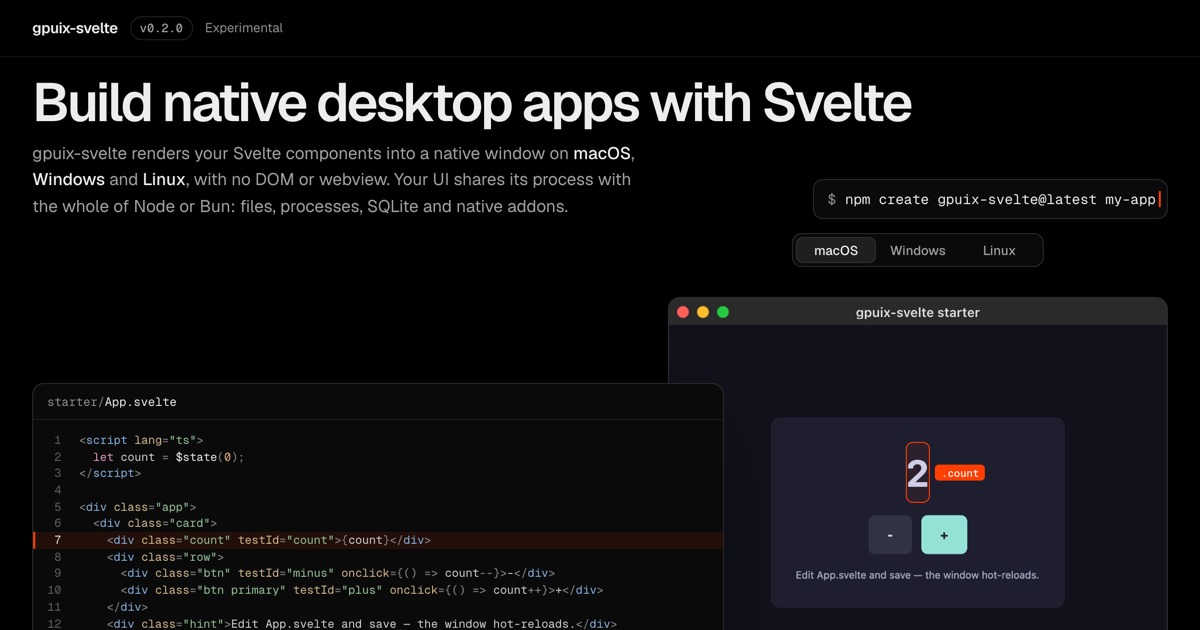
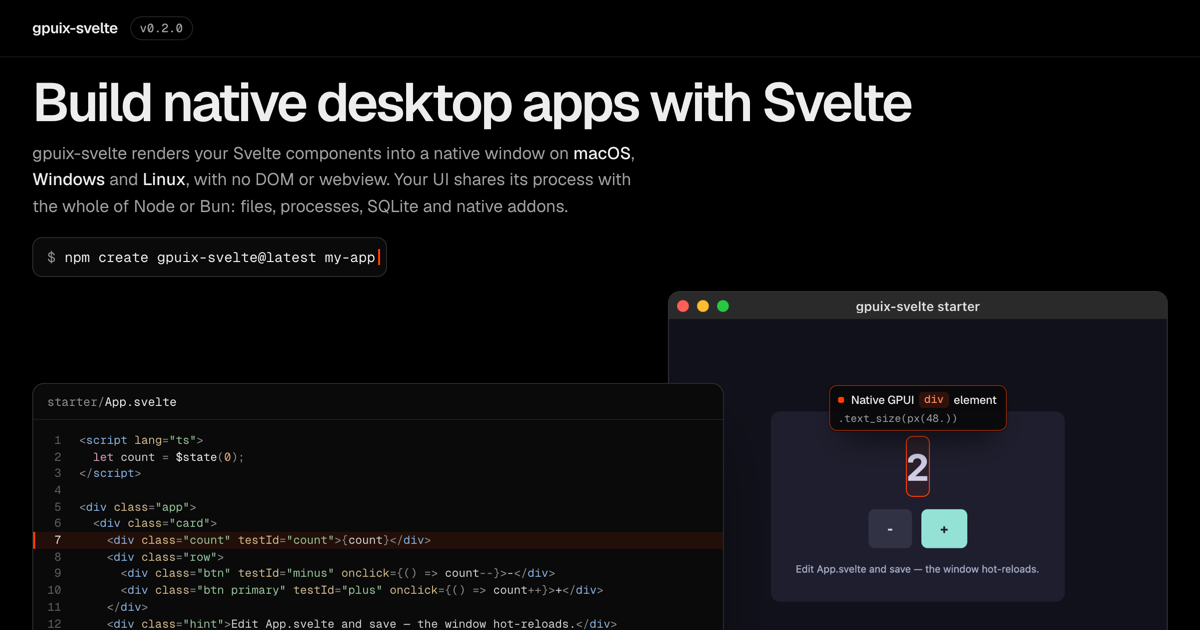
chore: wip

diff --git a/homepage/index.html b/homepage/index.html
@@ -19,12 +19,12 @@
 <meta property="og:image" content="https://khromov.github.io/gpuix-svelte/og.png">
 <meta property="og:image:width" content="1200">
 <meta property="og:image:height" content="630">
-<meta property="og:image:alt" content="The headline “Build native desktop apps with Svelte”, a sentence naming macOS, Windows and Linux, and the command npm create gpuix-svelte@latest my-app. Below it, the starter app’s App.svelte source beside its window, under a switch for the macOS, Windows and Linux title bars. Line 7 of the source is marked in orange, and the count it draws, 2, is outlined.">
+<meta property="og:image:alt" content="The headline “Build native desktop apps with Svelte”, a sentence naming macOS, Windows and Linux, and the command npm create gpuix-svelte@latest my-app. Below it, the starter app’s App.svelte source beside its window. Line 7 of the source is marked in orange, and the count it draws, 2, is outlined and labelled as a native GPUI div element.">
 <meta name="twitter:card" content="summary_large_image">
 <meta name="twitter:title" content="gpuix-svelte: Build native desktop apps with Svelte">
 <meta name="twitter:description" content="A Svelte renderer for native desktop apps on macOS, Windows and Linux. GPUI, the UI framework behind the Zed editor, draws them, with no DOM or webview.">
 <meta name="twitter:image" content="https://khromov.github.io/gpuix-svelte/og.png">
-<meta name="twitter:image:alt" content="The headline “Build native desktop apps with Svelte”, a sentence naming macOS, Windows and Linux, and the command npm create gpuix-svelte@latest my-app. Below it, the starter app’s App.svelte source beside its window, under a switch for the macOS, Windows and Linux title bars. Line 7 of the source is marked in orange, and the count it draws, 2, is outlined.">
+<meta name="twitter:image:alt" content="The headline “Build native desktop apps with Svelte”, a sentence naming macOS, Windows and Linux, and the command npm create gpuix-svelte@latest my-app. Below it, the starter app’s App.svelte source beside its window. Line 7 of the source is marked in orange, and the count it draws, 2, is outlined and labelled as a native GPUI div element.">
 <style>
 @font-face{font-family:Geist;src:url(assets/fonts/Geist-Variable.woff2) format("woff2");font-weight:100 900;font-style:normal;font-display:swap}
 @font-face{font-family:"Geist Mono";src:url(assets/fonts/GeistMono-Variable.woff2) format("woff2");font-weight:100 900;font-style:normal;font-display:swap}
@@ -74,18 +74,16 @@ ul[role=list]{list-style:none}
 .brand>a:first-child{font-weight:600;font-size:15px;letter-spacing:-.02em;text-decoration:none;white-space:nowrap}
 .ver{font:500 12px/1 var(--mono);color:var(--text-2);border:1px solid var(--line-2);border-radius:999px;padding:5px 9px;text-decoration:none;white-space:nowrap}
 .ver:hover{color:var(--text);border-color:var(--line-3)}
-.exp{font-size:13px;color:var(--text-3);text-decoration:none}
-.exp:hover{color:var(--text)}
 .nav ul{display:flex;gap:26px;margin:0;padding:0;list-style:none}
 .nav ul a{font-size:14px;color:var(--text-2);text-decoration:none;white-space:nowrap}
 .nav ul a:hover{color:var(--text)}
 
 .hero{padding:30px 0 80px}
 h1{font-size:clamp(38px,4.75vw,66px);line-height:1.02;letter-spacing:-.046em;text-wrap:balance}
-.lead{display:grid;grid-template-columns:minmax(0,1fr) auto;align-items:end;gap:20px 40px;margin-top:18px}
+.lead{display:grid;gap:24px;margin-top:18px}
 .lead p{max-width:37em;font-size:17px;line-height:1.55;color:var(--text-2);text-wrap:pretty}
 .lead p b{font-weight:500;color:var(--text)}
-.act{display:grid;gap:10px;justify-items:end;min-width:0}
+.act{display:flex;flex-wrap:wrap;align-items:center;gap:10px;min-width:0}
 .install{display:flex;align-items:center;gap:10px;min-width:0;max-width:100%;height:44px;padding:0 6px 0 14px;background:var(--s1);border:1px solid var(--line-2);border-radius:10px}
 .install code{flex:1 1 auto;min-width:0;font-size:14px;white-space:nowrap;overflow-x:auto;scrollbar-width:none;color:var(--text)}
 .install code::-webkit-scrollbar{display:none}
@@ -93,7 +91,8 @@ h1{font-size:clamp(38px,4.75vw,66px);line-height:1.02;letter-spacing:-.046em;tex
 .caret{display:inline-block;width:2px;height:16px;margin-left:3px;background:var(--accent);vertical-align:-3px}
 .copy{flex:none;appearance:none;height:32px;min-width:64px;padding:0 12px;font:500 12.5px/1 var(--sans);color:var(--text);background:var(--s3);border:1px solid var(--line-2);border-radius:7px;cursor:pointer}
 .copy:hover{background:#1f1f1f;border-color:var(--line-3)}
-.links{display:flex;gap:8px}
+.links{display:flex;gap:10px}
+.links .btn{height:44px;padding:0 18px;border-radius:10px}
 .btn{display:inline-flex;align-items:center;justify-content:center;height:34px;padding:0 14px;border-radius:8px;border:1px solid var(--line-2);font:500 14px/1 var(--sans);text-decoration:none;color:var(--text);white-space:nowrap}
 .btn:hover{border-color:var(--line-3);background:var(--s2)}
 .btn.solid{background:var(--text);color:#000;border-color:var(--text)}
@@ -139,12 +138,21 @@ h1{font-size:clamp(38px,4.75vw,66px);line-height:1.02;letter-spacing:-.046em;tex
 .tcopy .copy{position:absolute;top:8px;right:8px;height:26px;min-width:56px;font-size:12px;border-radius:6px}
 
 .box{position:absolute;border:1.5px solid var(--accent);border-radius:7px;background:rgba(255,62,0,.06);opacity:0;transition:opacity .14s ease;pointer-events:none}
-.box .tag{position:absolute;left:-1.5px;bottom:calc(100% + 5px);padding:3px 6px;border-radius:4px;background:var(--accent);color:#fff;font:500 10.5px/1 var(--mono);white-space:nowrap}
+.box .tag{position:absolute;left:-1.5px;bottom:calc(100% + 6px);display:grid;justify-items:start;gap:6px;padding:7px 10px 8px 9px;border:1px solid rgba(255,62,0,.5);border-radius:8px;background:rgba(9,9,11,.94);box-shadow:0 16px 32px -14px #000,0 0 0 1px rgba(0,0,0,.4);white-space:nowrap}
+.tag-k{display:flex;align-items:center;gap:5px;font:500 11.5px/1 var(--sans);letter-spacing:-.01em;color:var(--text)}
+.tag-k::before{content:"";flex:none;width:6px;height:6px;margin-right:2px;border-radius:2px;background:var(--accent)}
+.tag-k code{padding:2px 5px 3px;border-radius:4px;background:rgba(255,62,0,.16);color:#ff8a5c;font:500 11px/1 var(--mono)}
+.tag-c{font:400 10.5px/1 var(--mono);color:var(--text-2)}
 .box.in{background:none}
 .box.in .tag{bottom:auto;left:auto;top:8px;right:8px}
-.box.l .tag,.box.r .tag{bottom:auto;top:50%;transform:translateY(-50%)}
-.box.l .tag{left:auto;right:calc(100% + 6px)}
-.box.r .tag{left:calc(100% + 6px)}
+.box.r .tag{bottom:auto;top:50%;left:calc(100% + 6px);transform:translateY(-50%)}
+.box.ue .tag{left:auto;right:10px}
+.box.b .tag{bottom:auto;top:calc(100% + 6px)}
+@container (max-width:579px){
+.box .tag{bottom:calc(100% + 5px);gap:5px;padding:6px 9px 7px 8px}
+.box.r .tag,.box.ue .tag,.box.b .tag{top:calc(100% + 6px);bottom:auto;left:50%;right:auto;transform:translateX(-50%)}
+.box[data-t=count] .tag{top:auto;bottom:calc(100% + 6px)}
+}
 [data-active=app] .box[data-t=app],[data-active=card] .box[data-t=card],[data-active=count] .box[data-t=count],[data-active=row] .box[data-t=row],[data-active=minus] .box[data-t=minus],[data-active=plus] .box[data-t=plus],[data-active=hint] .box[data-t=hint]{opacity:1}
 [data-active=app] .ln[data-t=app],[data-active=card] .ln[data-t=card],[data-active=count] .ln[data-t=count],[data-active=row] .ln[data-t=row],[data-active=minus] .ln[data-t=minus],[data-active=plus] .ln[data-t=plus],[data-active=hint] .ln[data-t=hint]{background:var(--wash);box-shadow:inset 2px 0 0 var(--accent)}
 [data-active=app] .ln[data-t=app]::before,[data-active=card] .ln[data-t=card]::before,[data-active=count] .ln[data-t=count]::before,[data-active=row] .ln[data-t=row]::before,[data-active=minus] .ln[data-t=minus]::before,[data-active=plus] .ln[data-t=plus]::before,[data-active=hint] .ln[data-t=hint]::before{color:var(--text)}
@@ -172,7 +180,7 @@ h1{font-size:clamp(38px,4.75vw,66px);line-height:1.02;letter-spacing:-.046em;tex
 .osw-bars{position:relative;height:28px;overflow:hidden;background:#2a2a2a;box-shadow:inset 0 -1px rgba(0,0,0,.55);transition:height var(--osw-t) ease,background-color var(--osw-t) ease,box-shadow var(--osw-t) ease}
 .osw-bar{position:absolute;top:0;left:0;right:0;display:flex;align-items:center;opacity:0;visibility:hidden;user-select:none;-webkit-user-select:none;transition:opacity var(--osw-h) ease,visibility 0s linear var(--osw-h)}
 .osw-title{min-width:0;overflow:hidden;white-space:nowrap;text-overflow:ellipsis}
-.osw-body{position:relative}
+.osw-body{position:relative;container-type:inline-size}
 .osw-body img{display:block;width:100%;max-width:none;height:auto}
 
 .osw-mac{height:28px;justify-content:center;padding:0 72px}
@@ -409,10 +417,10 @@ figcaption{font-size:13.5px;line-height:1.55;color:var(--text-3)}
 .slot-dots{position:absolute;top:10px;left:10px;display:flex;gap:4px}
 .slot-dots i{width:7px;height:7px;border:1px solid var(--line-3);border-radius:50%}
 .slot+.slot .slot-dots i{border-color:var(--line-2)}
-.sponsor{margin-top:56px}
-.sponsor p{font-size:14px;color:var(--text-3)}
-.sponsor a{color:var(--text-2)}
-.sponsor a:hover{color:var(--text)}
+.sponsor{display:flex;align-items:center;justify-content:space-between;gap:20px 40px;margin-top:64px;padding:32px 36px;border:1px solid var(--line-2);border-radius:14px;background:radial-gradient(70% 180% at 100% 0,rgba(255,62,0,.09),transparent 70%),var(--s1)}
+.sponsor p{max-width:27em;font-size:21px;line-height:1.35;font-weight:500;letter-spacing:-.022em;color:var(--text);text-wrap:balance}
+.sponsor .btn{flex:none;gap:8px;height:44px;padding:0 20px;border-radius:10px}
+.heart{display:block;width:15px;height:15px;fill:var(--accent)}
 
 .foot{border-top:1px solid var(--line);padding:36px 0 52px}
 .foot .wrap{display:flex;flex-wrap:wrap;align-items:baseline;justify-content:space-between;gap:16px 32px}
@@ -486,8 +494,6 @@ code.hiw-name,.hiw-edge code{font:450 12.5px/1.4 var(--mono,ui-monospace,monospa
 .hiw-gpu{display:grid;grid-template-columns:auto minmax(0,1fr);align-items:baseline;gap:4px 10px}
 .hiw-gpu .hiw-note{margin:0}
 .hiw-vh{position:absolute;width:1px;height:1px;overflow:hidden;clip-path:inset(50%);white-space:nowrap}
-.hiw-cap{margin-top:14px;max-width:62em;font-size:13.5px;line-height:1.55;color:var(--text-3,#8f8f8f)}
-.hiw-cap code{font-family:var(--mono,ui-monospace,monospace);font-size:.92em;color:var(--text-2,#a1a1a1);background:none;border:0;padding:0;white-space:nowrap}
 @container hiw (max-width:1175px){
 .hiw-map{grid-template-columns:[mt] var(--hiw-t) [ml] minmax(0,1fr) [gap] 14px [wt] var(--hiw-t) [wl] minmax(0,1fr) [end];grid-template-rows:[c1] auto [c2] auto [fork] calc(var(--hiw-r) * 2 + 10px) [e1] auto [s1] auto [e2] auto [s2] auto [s3] auto [s4] auto [s5] auto [end];padding:24px 18px 6px}
 .hiw-map .hiw-key{grid-column:wt/end;grid-row:c1/fork}
@@ -556,12 +562,16 @@ code.hiw-name,.hiw-edge code{font-size:11.5px}
 @media (min-width:1100px) and (max-height:760px){
 .hero{padding-top:18px}
 h1{font-size:min(4.75vw,54px)}
-.lead{margin-top:10px}
-.act{gap:8px}
-.install{height:40px}
-.links .btn{height:32px}
+.lead{margin-top:10px;gap:18px}
+.install,.links .btn{height:40px}
 .stage{--ov:56px;margin-top:14px;grid-template-columns:minmax(max-content,1fr) minmax(0,500px)}
 .code.hero-code{font-size:11.5px;line-height:1.45}
+}
+@media (min-width:1280px){
+.stage{margin-top:-39px}
+}
+@media (min-width:1280px) and (max-height:760px){
+.stage{margin-top:-37px}
 }
 @media (min-width:1440px){
 main,.foot{background:linear-gradient(var(--line),var(--line)) calc(50% - var(--max) / 2 - var(--gut)) 0/1px 100% no-repeat,linear-gradient(var(--line),var(--line)) calc(50% + var(--max) / 2 + var(--gut)) 0/1px 100% no-repeat}
@@ -584,8 +594,7 @@ main,.foot{background:linear-gradient(var(--line),var(--line)) calc(50% - var(--
 .sec{padding:72px 0}
 .sec.tight{padding:56px 0}
 .hero{padding-bottom:64px}
-.lead{grid-template-columns:minmax(0,1fr)}
-.act{grid-template-columns:minmax(0,1fr);justify-items:stretch}
+.install{flex:1 1 auto}
 #how-it-works .main{margin-bottom:28px}
 .shp-set{margin-top:36px}
 .rows{grid-template-columns:minmax(0,1fr);gap:14px;margin-top:32px}
@@ -594,7 +603,13 @@ main,.foot{background:linear-gradient(var(--line),var(--line)) calc(50% - var(--
 .status{grid-template-columns:minmax(0,1fr)}
 .sponsor{margin-top:48px}
 }
+@media (max-width:729px){
+.install,.links{flex:1 1 100%}
+.links .btn{flex:1 1 0;min-width:0}
+}
 @media (max-width:599px){
+.sponsor{flex-direction:column;align-items:stretch;padding:24px 20px}
+.sponsor p{font-size:18px}
 .ex{gap:28px 12px}
 .ex-card p{font-size:13px}
 .diffs{grid-template-columns:minmax(0,1fr)}
@@ -604,7 +619,6 @@ main,.foot{background:linear-gradient(var(--line),var(--line)) calc(50% - var(--
 :root{--corner:64px}
 .nav ul{gap:16px}
 .brand{gap:8px}
-.ver{display:none}
 .hero{padding-top:28px}
 h1{font-size:clamp(34px,10.4vw,44px)}
 .lead p{font-size:16px}
@@ -612,14 +626,15 @@ h1{font-size:clamp(34px,10.4vw,44px)}
 .install code{font-size:12px}
 .install .pr{display:none}
 .copy{min-width:56px;padding:0 10px}
-.links .btn{flex:1 1 0;min-width:0}
 .tcopy .copy:not([hidden]){position:static;display:block;margin:-6px 10px 12px auto}
 }
 @media (max-width:560px) and (hover:hover){
 .h-more{display:none}
 }
+@media (max-width:400px){
+.ver{display:none}
+}
 @media (max-width:380px){
-.exp{display:none}
 .nav ul{gap:14px}
 .bar .hint{display:none}
 .install{flex-wrap:wrap;height:auto;padding:10px 6px 6px 12px;row-gap:6px}
@@ -630,8 +645,9 @@ h1{font-size:clamp(34px,10.4vw,44px)}
 .h-fine{display:none}
 .h-touch{display:inline}
 }
-:root:has(#og:target) :is(.nav ul,.github-corner,.copy,.bar .hint,.links){display:none}
-:root:has(#og:target) .stage .editor{margin-top:150px}
+:root:has(#og:target) :is(.nav ul,.github-corner,.copy,.bar .hint,.links,.osw-seg){display:none}
+:root:has(#og:target) .osw-win{margin-top:0}
+:root:has(#og:target) .stage .editor{margin-top:92px}
 @media (prefers-reduced-motion:reduce){*,*::before,*::after{transition:none!important;animation:none!important}}
 </style>
 </head>
@@ -639,7 +655,7 @@ h1{font-size:clamp(34px,10.4vw,44px)}
 <i id="og" hidden></i>
 <header class="top">
 <nav class="wrap nav" aria-label="Main">
-<div class="brand"><a href="./">gpuix-svelte</a><a class="ver" href="https://github.com/khromov/gpuix-svelte/blob/main/CHANGELOG.md">v0.2.0</a><a class="exp" href="#status">Experimental</a></div>
+<div class="brand"><a href="./">gpuix-svelte</a><a class="ver" href="https://github.com/khromov/gpuix-svelte/blob/main/CHANGELOG.md">v0.2.0</a></div>
 <ul>
 <li><a href="overview.html">Docs</a></li>
 <li><a href="#examples">Examples</a></li>
@@ -674,13 +690,13 @@ h1{font-size:clamp(34px,10.4vw,44px)}
 <div class="osw-bar osw-gn"><span class="osw-title">gpuix-svelte starter</span><i class="osw-gx"><svg viewBox="0 0 16 16"><path d="M5 5l6 6m0-6l-6 6"/></svg></i></div>
 </div>
 <div class="osw-body"><img src="assets/shots/hot-before.png" width="640" height="480" fetchpriority="high" alt="The starter app’s window, captured on macOS: a dark card with the count 2, a minus button, a teal plus button and the hint “Edit App.svelte and save — the window hot-reloads.”">
-<span class="box b-app in" data-t="app" aria-hidden="true"><span class="tag">.app</span></span>
-<span class="box b-card" data-t="card" aria-hidden="true"><span class="tag">.card</span></span>
-<span class="box b-row l" data-t="row" aria-hidden="true"><span class="tag">.row</span></span>
-<span class="box b-minus l" data-t="minus" aria-hidden="true"><span class="tag">.btn</span></span>
-<span class="box b-plus r" data-t="plus" aria-hidden="true"><span class="tag">.btn.primary</span></span>
-<span class="box b-count r" data-t="count" aria-hidden="true"><span class="tag">.count</span></span>
-<span class="box b-hint" data-t="hint" aria-hidden="true"><span class="tag">.hint</span></span></div>
+<span class="box b-app in" data-t="app" aria-hidden="true"><span class="tag"><span class="tag-k">Native GPUI <code>div</code> element</span><code class="tag-c">.flex().w_full().h_full()</code></span></span>
+<span class="box b-card" data-t="card" aria-hidden="true"><span class="tag"><span class="tag-k">Native GPUI <code>div</code> element</span><code class="tag-c">.flex_col().gap(px(16.))</code></span></span>
+<span class="box b-row r" data-t="row" aria-hidden="true"><span class="tag"><span class="tag-k">Native GPUI <code>div</code> element</span><code class="tag-c">.flex_row().gap(px(12.))</code></span></span>
+<span class="box b-minus ue" data-t="minus" aria-hidden="true"><span class="tag"><span class="tag-k">Native GPUI <code>div</code> element</span><code class="tag-c">.hover(..).on_mouse_up(..)</code></span></span>
+<span class="box b-plus r" data-t="plus" aria-hidden="true"><span class="tag"><span class="tag-k">Native GPUI <code>div</code> element</span><code class="tag-c">.hover(..).on_mouse_up(..)</code></span></span>
+<span class="box b-count r" data-t="count" aria-hidden="true"><span class="tag"><span class="tag-k">Native GPUI <code>div</code> element</span><code class="tag-c">.text_size(px(48.))</code></span></span>
+<span class="box b-hint b" data-t="hint" aria-hidden="true"><span class="tag"><span class="tag-k">Native GPUI <code>div</code> element</span><code class="tag-c">.text_size(px(13.))</code></span></span></div>
 </div>
 <figcaption class="osw-note">The same <code>App.svelte</code> runs on macOS, Windows and Linux, laid out and drawn by GPUI. <span class="osw-says"><span class="osw-say-mac">On macOS, where this screenshot was taken, GPUI draws with Metal.</span><span class="osw-say-win">On Windows, GPUI draws with DirectX. The screenshot is from macOS.</span><span class="osw-say-linux">On Linux, GPUI draws with Vulkan. The screenshot is from macOS.</span></span></figcaption>
 </figure>
@@ -768,7 +784,6 @@ Created my-app. Next:
 <li class="hiw-stop hiw-end hiw-s5"><svg class="hiw-glyph" viewBox="0 0 24 18" width="24" height="18" aria-hidden="true"><rect x=".75" y=".75" width="22.5" height="16.5" rx="3" fill="none" stroke="currentColor" stroke-width="1.5"/><path d="M1 6h22" stroke="currentColor" stroke-width="1.25"/><circle cx="4.25" cy="3.4" r="1" fill="currentColor"/><circle cx="7.05" cy="3.4" r="1" fill="currentColor"/><circle cx="9.85" cy="3.4" r="1" fill="currentColor"/></svg><span class="hiw-name">A native window</span> <span class="hiw-note">No DOM or webview in the process</span></li>
 </ol>
 </div>
-<figcaption class="hiw-cap">The same <code>App.svelte</code> on both paths. Measured on the starter app: mounting it ships one batch of 41 operations, and a click on + ships a batch of one, <code>["setText",5,"1"]</code>.</figcaption>
 </figure>
 </div>
 </section>
@@ -1048,7 +1063,8 @@ Created my-app. Next:
 <div class="slot" aria-hidden="true"><span class="slot-dots"><i></i><i></i><i></i></span></div>
 </div>
 <aside class="sponsor" aria-label="Sponsor">
-<p>If <span class="nw">gpuix-svelte</span> is useful to you, you can <a href="https://github.com/sponsors/khromov">sponsor its development on GitHub</a>.</p>
+<p>If <span class="nw">gpuix-svelte</span> is useful to you, you can sponsor its development on GitHub.</p>
+<a class="btn solid" href="https://github.com/sponsors/khromov" aria-label="Sponsor gpuix-svelte on GitHub"><svg class="heart" viewBox="0 0 16 16" aria-hidden="true"><path d="M8 14.25s-6.25-3.6-6.25-8.12C1.75 3.73 3.48 2 5.6 2 6.7 2 7.5 2.55 8 3.36 8.5 2.55 9.3 2 10.4 2c2.12 0 3.85 1.73 3.85 4.13C14.25 10.65 8 14.25 8 14.25z"/></svg>Sponsor</a>
 </aside>
 </div>
 </section>

diff --git a/scripts/docs.ts b/scripts/docs.ts
@@ -131,8 +131,6 @@ a { color: var(--link); }
 .wordmark { color: var(--fg); font-size: 15px; font-weight: 600; letter-spacing: -0.02em; text-decoration: none; }
 .version { color: var(--muted); font: 12px/20px var(--mono); padding: 0 8px; border: 1px solid var(--line); border-radius: 999px; text-decoration: none; }
 .version:hover { color: var(--fg); border-color: var(--line-strong); }
-.exp { color: var(--faint); font-size: 13px; text-decoration: none; }
-.exp:hover { color: var(--fg); }
 .links { margin-left: auto; margin-right: max(0px, var(--corner) + 8px - var(--gut) - max(0px, (100vw - 1200px - var(--gut) * 2) / 2)); display: flex; gap: 24px; }
 .links a { color: var(--muted); font-size: 14px; text-decoration: none; }
 .links a:hover, .links a[aria-current] { color: var(--fg); }
@@ -256,7 +254,6 @@ code { font-family: var(--mono); font-size: 0.875em; font-variant-ligatures: non
   .table :is(th, td) { padding: 9px 12px; }
   .page-end { margin-top: 56px; }
 }
-@media (max-width: 560px) { .exp { display: none; } }
 @media (max-width: 400px) { .version { display: none; } }
 `;
 
@@ -330,7 +327,6 @@ function page(current: Page, body: string) {
 <div class="wrap top-inner">
 <a class="wordmark" href="index.html">gpuix-svelte</a>
 <a class="version" href="${REPO}/blob/main/CHANGELOG.md" title="Changelog">v${version}</a>
-<a class="exp" href="index.html#status">Experimental</a>
 <nav class="links" aria-label="Site">
 <a href="overview.html" aria-current="true">Docs</a>
 <a href="index.html#examples">Examples</a>
